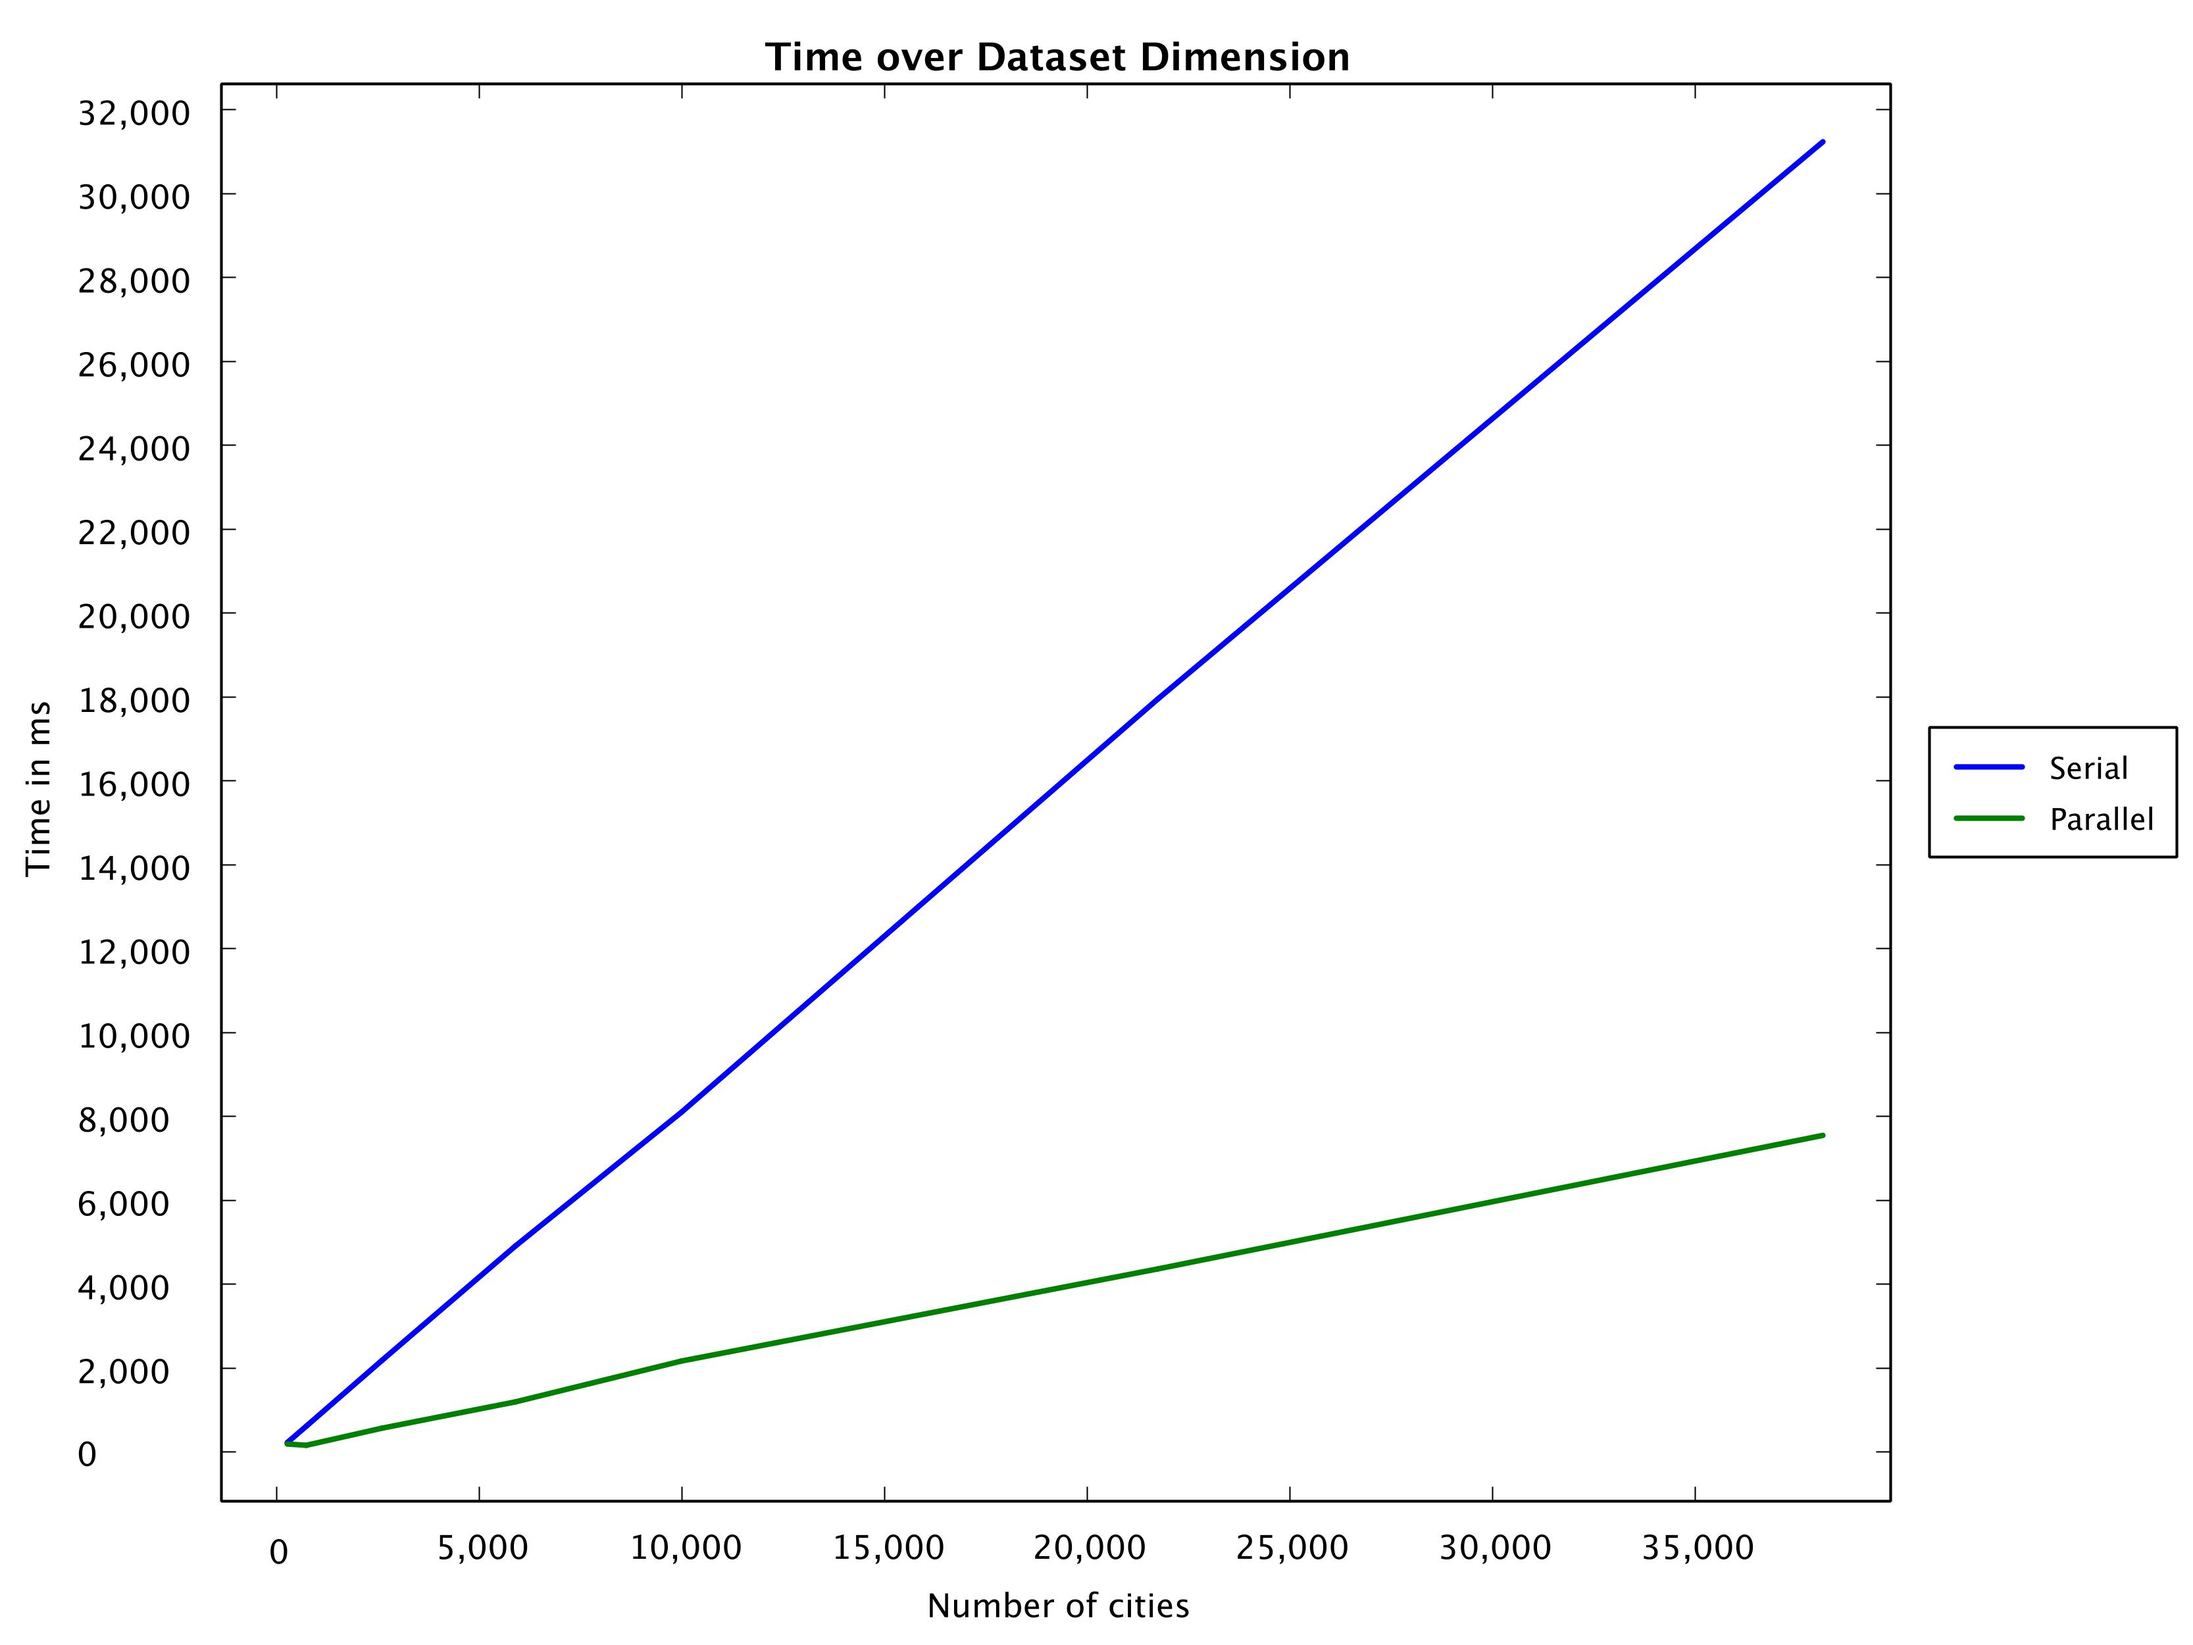
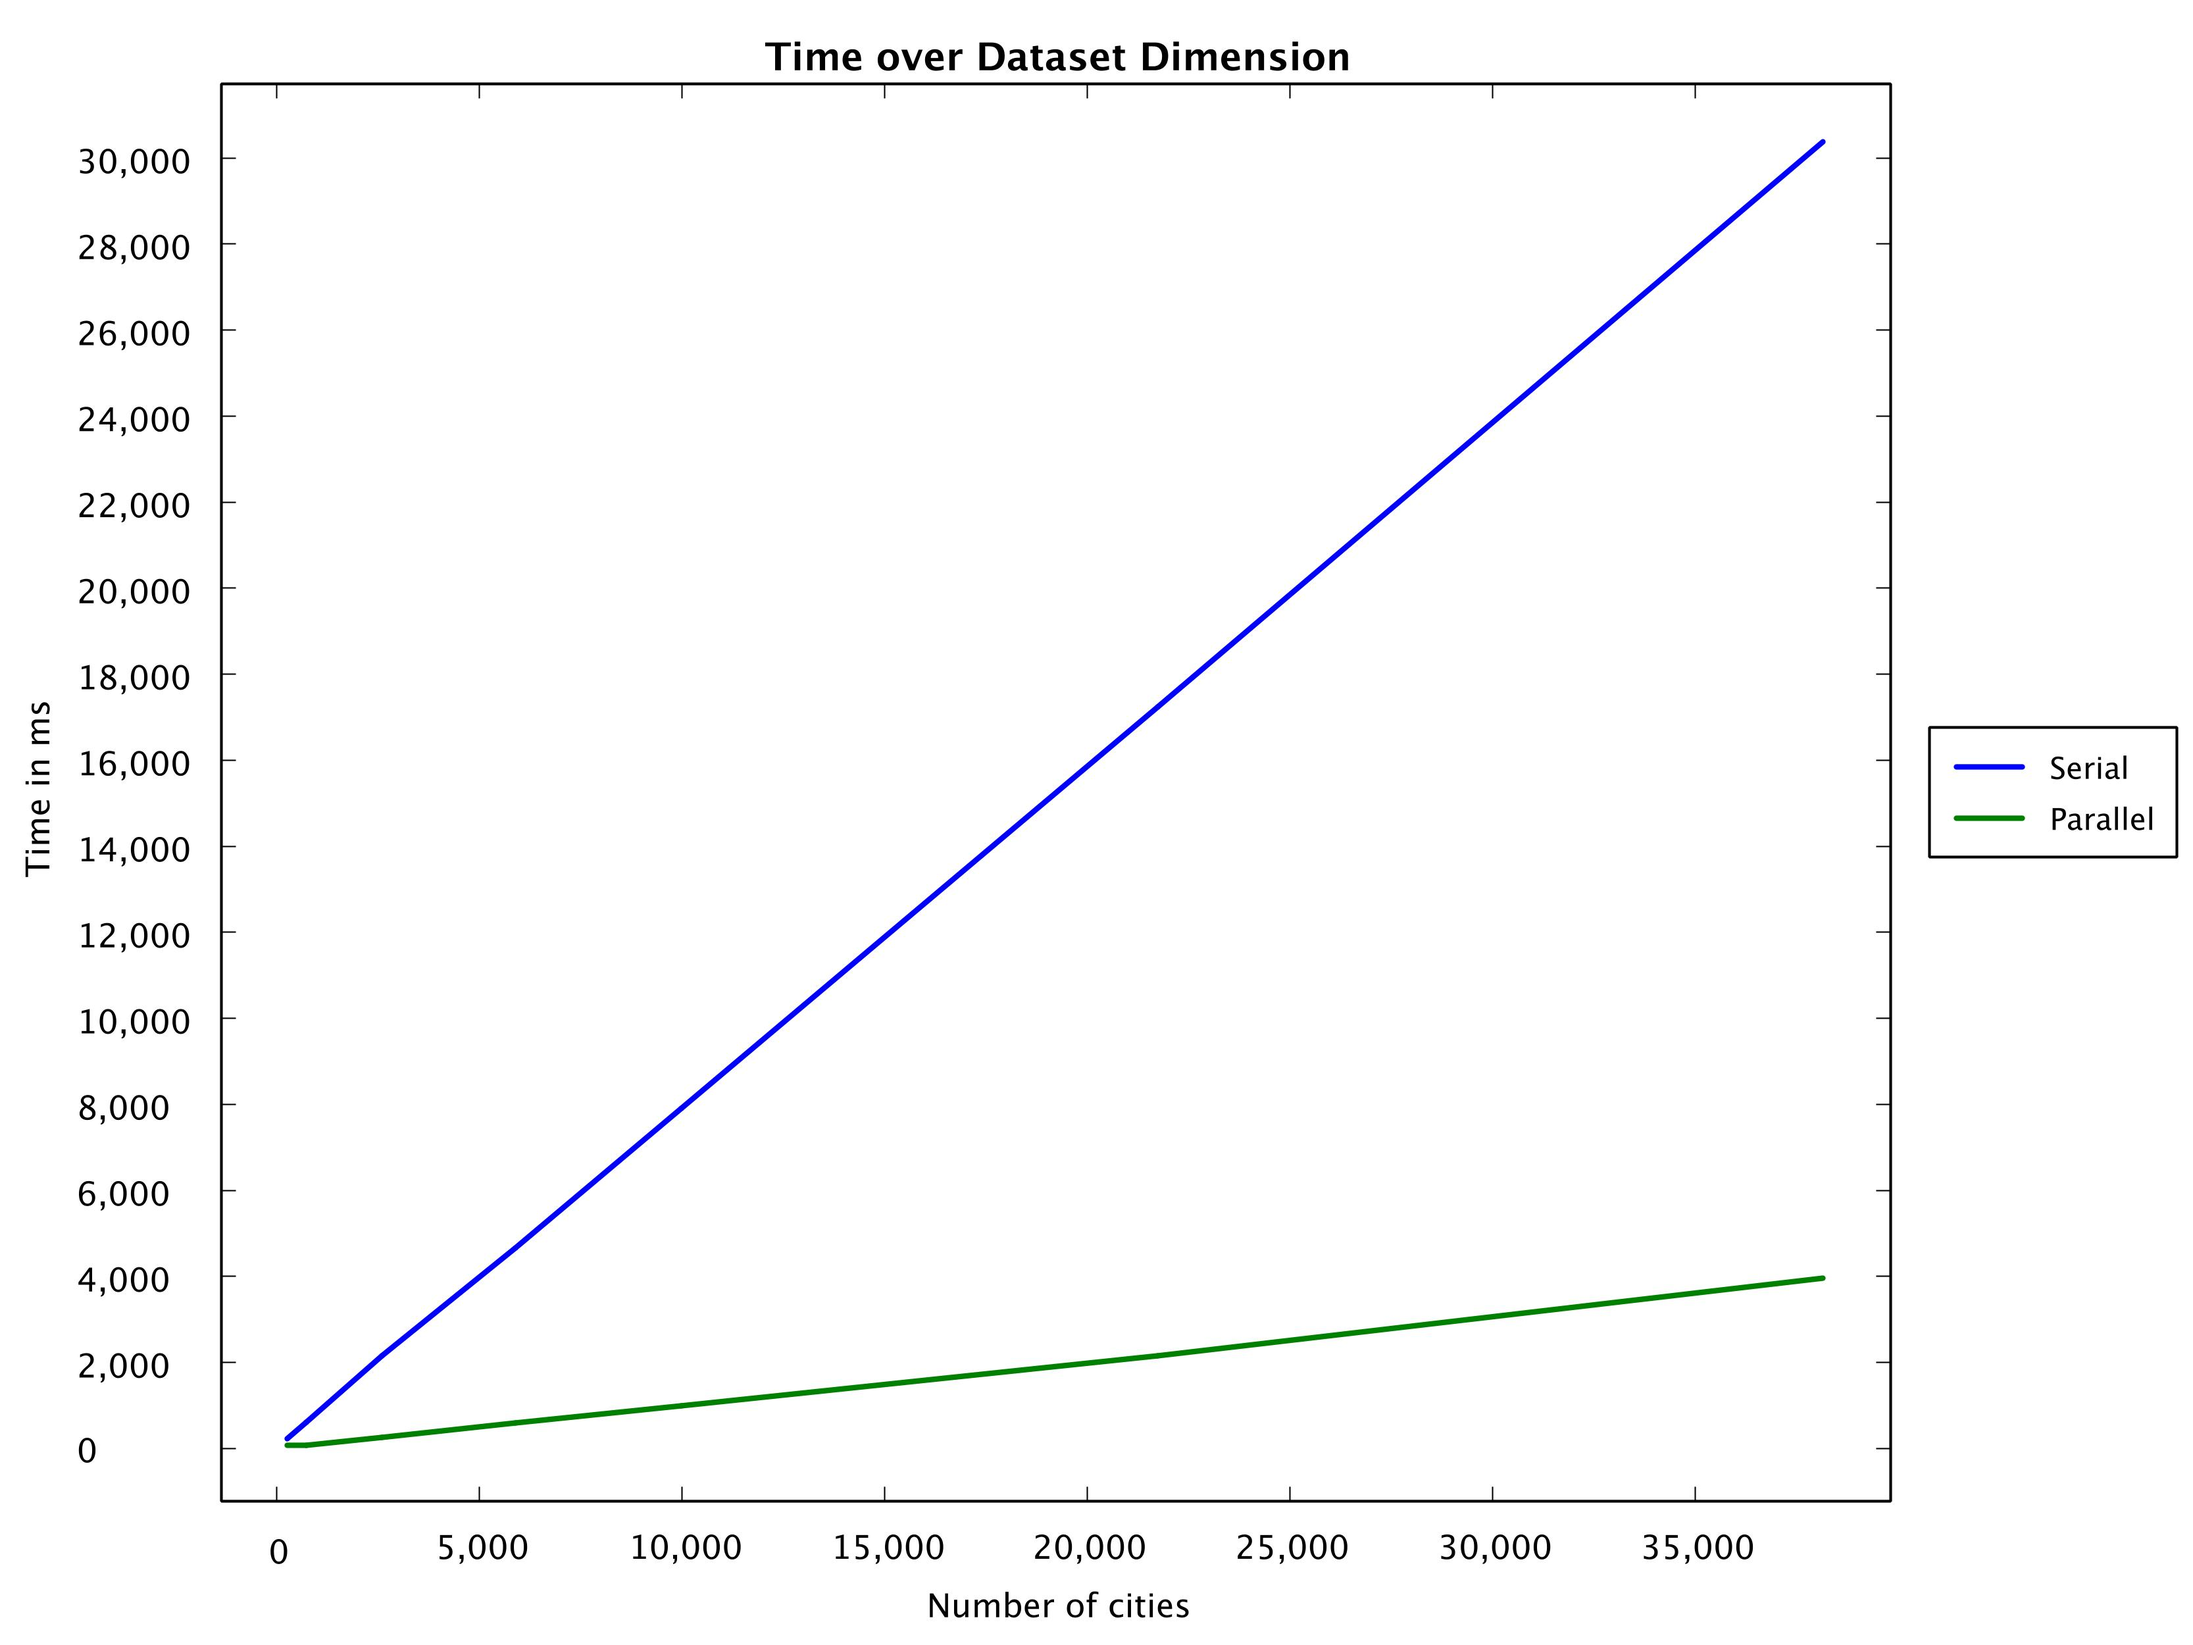
Export data as CSV

diff --git a/_5parallel/src/main/java/Main.java b/_5parallel/src/main/java/Main.java
@@ -26,8 +26,9 @@ public class Main {
             List<Double> populations = new ArrayList<>();
             List<Double> serial_values = new ArrayList<>();
             List<Double> parallel_values = new ArrayList<>();
+            List<Double> best_parallel_values = new ArrayList<>();
 
-            List<Integer> filters = Arrays.asList(100_000, 50_000, 15_000, 5_000, 2_000, 250, -1);
+            List<Integer> filters = Arrays.asList(100_000, 50_000, 15_000, 5_000, 2_000, 250, Integer.MIN_VALUE);
 
             filters.forEach(filter -> {
                 List<City> cities = cities_original.stream()
@@ -38,16 +39,23 @@ public class Main {
                 populations.add((double) cities.size());
                 serial_values.add(get_time(() -> SerialKMeans.run(cities, 50, 100)));
                 parallel_values.add(get_time(() -> ParallelKMeans.run(cities, 50, 100, 1)));
+                best_parallel_values.add(get_time(() -> ParallelKMeans.run(cities, 50, 100, 31834)));
             });
-            Graph1.Labels labels = new Graph1.Labels("Time over Dataset Dimension", "Number of cities", "Time in ms");
-            List<Graph1.Serie> series = new ArrayList<>();
-            series.add(new Graph1.Serie("Serial", serial_values));
-            series.add(new Graph1.Serie("Parallel", parallel_values));
+            
+            List<String[]> dataLines = new ArrayList<>();
+            for (int i = 0; i < populations.size(); i++) {
+                String population = String.valueOf(populations.get(i));
+                String serial = String.valueOf(serial_values.get(i));
+                String parallel = String.valueOf(parallel_values.get(i));
+                String best_parallel = String.valueOf(best_parallel_values.get(i));
 
-            export_chart("Chart_1", labels, populations, series, false);
+                dataLines.add(new String[]{ population, serial, parallel, best_parallel });
+            }
+
+            saveAsCSV(dataLines, "population,serial,parallel,best_parallel", "charts/1.csv");
         }
 
-        // ANSWER 2
+        // // ANSWER 2
         {
             List<Double> centers = new ArrayList<>();
             List<Double> serial_values = new ArrayList<>();
@@ -57,20 +65,24 @@ public class Main {
                 System.out.println("Doing number of cluster " + number_of_centers);
                 centers.add((double) number_of_centers);
                 serial_values.add(get_time(() -> SerialKMeans.run(cities_original, number_of_centers, 100)));
-                parallel_values.add(get_time(() -> ParallelKMeans.run(cities_original, number_of_centers, 100, 1)));
+                parallel_values.add(get_time(() -> ParallelKMeans.run(cities_original, number_of_centers, 100, 31834)));
             });
 
-            Graph1.Labels labels = new Graph1.Labels("Time over Number of Clusters", "Number of clusters", "Time in ms");
-            List<Graph1.Serie> series = new ArrayList<>();
-            series.add(new Graph1.Serie("Serial", serial_values));
-            series.add(new Graph1.Serie("Parallel", parallel_values));
+            List<String[]> dataLines = new ArrayList<>();
+            for (int i = 0; i < centers.size(); i++) {
+                String center = String.valueOf(centers.get(i));
+                String serial = String.valueOf(serial_values.get(i));
+                String parallel = String.valueOf(parallel_values.get(i));
 
-            export_chart("Chart_2", labels, centers, series, false);
+                dataLines.add(new String[]{ center, serial, parallel });
+            }
+
+            saveAsCSV(dataLines, "clusters,serial,parallel", "charts/2.csv");
         }
 
-        // ANSWER 3
+        // // ANSWER 3
         {
-            List<Double> interactions = new ArrayList<>();
+            List<Double> iterations = new ArrayList<>();
             List<Double> serial_values = new ArrayList<>();
             List<Double> parallel_values = new ArrayList<>();
 
@@ -78,20 +90,24 @@ public class Main {
             IntStream _100_1000 = IntStream.iterate(400, i -> i <= 1000, i -> i + 300);
 
             IntStream.concat(_20_100, _100_1000).forEach(interaction -> {
-                System.out.println("Doing interaction " + interaction);
+                System.out.println("Doing iteration " + interaction);
 
-                interactions.add((double) interaction);
+                iterations.add((double) interaction);
                 serial_values.add(get_time(() -> SerialKMeans.run(cities_original, 50, interaction)));
-                parallel_values.add(get_time(() -> ParallelKMeans.run(cities_original, 50, interaction, 1)));
+                parallel_values.add(get_time(() -> ParallelKMeans.run(cities_original, 50, interaction, 31834)));
 
             });
 
-            Graph1.Labels labels = new Graph1.Labels("Time over Number of Interaction", "Number of interactions", "Time in ms");
-            List<Graph1.Serie> series = new ArrayList<>();
-            series.add(new Graph1.Serie("Serial", serial_values));
-            series.add(new Graph1.Serie("Parallel", parallel_values));
+            List<String[]> dataLines = new ArrayList<>();
+            for (int i = 0; i < iterations.size(); i++) {
+                String iteration = String.valueOf(iterations.get(i));
+                String serial = String.valueOf(serial_values.get(i));
+                String parallel = String.valueOf(parallel_values.get(i));
 
-            export_chart("Chart_3", labels, interactions, series, false);
+                dataLines.add(new String[]{ iteration, serial, parallel });
+            }
+
+            saveAsCSV(dataLines, "iterations,serial,parallel", "charts/3.csv");
         }
 
         // ANSWER 4
@@ -105,10 +121,15 @@ public class Main {
                 parallel_values.add(get_time(() -> ParallelKMeans.run(cities_original, 50, 100, cutoff)));
             });
 
-            Graph1.Labels labels = new Graph1.Labels("Time over Cutoff value", "Cutoff value", "Time in ms");
-            List<Graph1.Serie> series = new ArrayList<>();
-            series.add(new Graph1.Serie("Parallel", parallel_values));
-            export_chart("Chart_4", labels, cutoffs, series, true);
+            List<String[]> dataLines = new ArrayList<>();
+            for (int i = 0; i < cutoffs.size(); i++) {
+                String iteration = String.valueOf(cutoffs.get(i));
+                String parallel = String.valueOf(parallel_values.get(i));
+
+                dataLines.add(new String[]{ iteration, parallel });
+            }
+
+            saveAsCSV(dataLines, "cutoff,parallel", "charts/4.csv");
         }
     }
 
@@ -125,6 +146,19 @@ public class Main {
             BitmapEncoder.saveBitmapWithDPI(chart, "./charts/" + name, BitmapEncoder.BitmapFormat.JPG, 300);
         } catch (IOException e) {
             e.printStackTrace();
+        }
+    }
+
+    static private void saveAsCSV(List<String[]> dataLines, String header, String fileName) {
+        File csvOutputFile = new File(fileName);
+        try (PrintWriter pw = new PrintWriter(csvOutputFile)) {
+            pw.println(header);
+
+            dataLines.stream()
+                .map(line -> String.join(",", line))
+                .forEach(pw::println);
+        } catch (Exception e) {
+            System.out.println(e);
         }
     }
 }

diff --git a/_5parallel/src/main/java/ParallelKMeans.java b/_5parallel/src/main/java/ParallelKMeans.java
@@ -95,8 +95,9 @@ public class ParallelKMeans {
                 int mid = Math.floorDiv(size, 2);
                 ClusterReduce r1 = new ClusterReduce(cluster_of_cities.subList(0, mid), cities.subList(0, mid), h, cutoff);
                 ClusterReduce r2 = new ClusterReduce(cluster_of_cities.subList(mid, size), cities.subList(mid, size), h, cutoff);
-                r1.fork();
-                return Result.sum(r2.compute(), r1.join());
+                
+                invokeAll(r1, r2);
+                return Result.sum(r1.join(), r2.join());
             }
         }
     }
